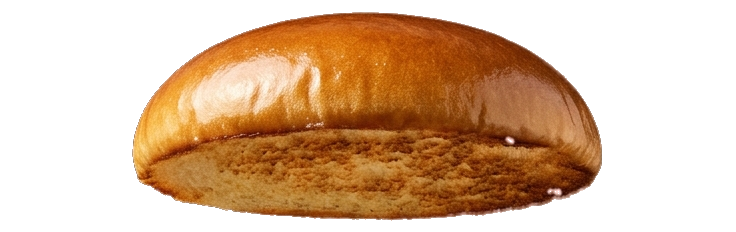
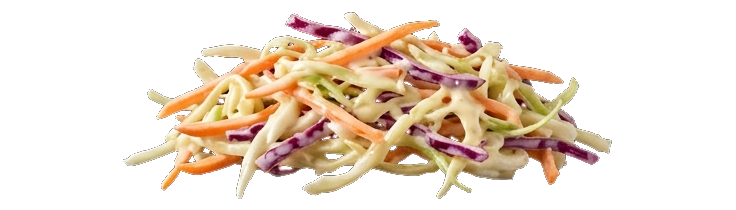
fix(og-chicken): swap couche 1 bun and couche 2 coleslaw, fix mobile responsive label layout

diff --git a/client/src/pages/Home.tsx b/client/src/pages/Home.tsx
@@ -1102,7 +1102,7 @@ export default function Home() {
             <div className="lg:col-span-7 flex flex-col items-center">
               
               {/* 3D STAGE CARD (NO overflow-hidden TO PRESERVE 3D DEPTH) */}
-              <div className="relative w-full max-w-[580px] rounded-3xl bg-gradient-to-b from-[#14141a]/95 to-[#0e0e12]/98 border border-white/10 p-5 sm:p-6 flex flex-col items-center justify-between shadow-2xl group">
+              <div className="relative w-full max-w-[580px] rounded-3xl bg-gradient-to-b from-[#14141a]/95 to-[#0e0e12]/98 border border-white/10 p-3.5 sm:p-6 flex flex-col items-center justify-between shadow-2xl group">
                 
                 {/* AMBIENT RADIAL GLOW */}
                 <div
@@ -1236,7 +1236,9 @@ export default function Home() {
                   {/* 3D BURGER MODEL CONTAINER (HIGH-PERFORMANCE DIRECT DOM TRANSFORM) */}
                   <div
                     ref={modelRef}
-                    className={`burger-3d-model relative flex items-center justify-center cursor-pointer w-[280px] sm:w-[320px] h-[280px] sm:h-[320px] ${
+                    className={`burger-3d-model relative flex items-center justify-center cursor-pointer ${
+                      isExploded ? "w-full max-w-[480px] h-[330px] sm:h-[360px]" : "w-[280px] sm:w-[320px] h-[280px] sm:h-[320px]"
+                    } ${
                       isExploded ? "exploded" : ""
                     }`}
                   >
@@ -1293,13 +1295,10 @@ export default function Home() {
                                   zIndex: isActive ? 30 : total - idx,
                                 }}
                               >
-                                {/* 5 TRANSPARENT PNG LAYERS (280px, height: auto, NO background, NO overflow hidden) */}
+                                {/* 5 TRANSPARENT PNG LAYERS (Responsive width, height: auto, NO background, NO overflow hidden) */}
                                 <div
+                                  className="w-[165px] min-[380px]:w-[190px] min-[440px]:w-[220px] sm:w-[260px] md:w-[280px] shrink-0 relative transition-transform duration-500"
                                   style={{
-                                    width: '280px',
-                                    flexShrink: 0,
-                                    position: 'relative',
-                                    transition: 'transform 0.45s cubic-bezier(0.34, 1.56, 0.64, 1)',
                                     transform: isActive ? 'scale(1.08)' : 'scale(1)',
                                   }}
                                 >
@@ -1307,35 +1306,29 @@ export default function Home() {
                                     src={layer.image}
                                     alt={layer.name}
                                     draggable={false}
+                                    className="w-full h-auto object-contain block pointer-events-none select-none"
                                     style={{
-                                      width: '280px',
-                                      height: 'auto',
-                                      objectFit: 'contain',
                                       filter: isActive
                                         ? 'drop-shadow(0 20px 30px rgba(0,0,0,0.8)) drop-shadow(0 0 20px rgba(255,59,48,0.85)) brightness(1.1)'
                                         : 'drop-shadow(0 15px 25px rgba(0,0,0,0.6))',
-                                      pointerEvents: 'none',
-                                      userSelect: 'none',
-                                      display: 'block',
                                     }}
                                   />
                                 </div>
 
-                                {/* INGREDIENT LABEL — right side, cleanly aligned outside burger */}
+                                {/* INGREDIENT LABEL — right side, responsive & never cut off */}
                                 <div
                                   style={{
-                                    marginLeft: '14px',
                                     transition: 'all 0.35s cubic-bezier(0.16, 1, 0.3, 1)',
-                                    opacity: isActive ? 1 : 0.5,
-                                    transform: isActive ? 'translateX(6px)' : 'translateX(0px)',
+                                    opacity: isActive ? 1 : 0.65,
+                                    transform: isActive ? 'translateX(4px)' : 'translateX(0px)',
                                   }}
-                                  className="flex flex-col items-start gap-1 pointer-events-none pr-2"
+                                  className="flex flex-col items-start gap-0.5 sm:gap-1 pointer-events-none flex-1 min-w-0 pl-1.5 sm:pl-3.5 pr-0.5 sm:pr-2"
                                 >
-                                  <div className="flex items-center gap-1.5">
+                                  <div className="flex items-center gap-1 sm:gap-1.5 w-full min-w-0">
                                     <span
-                                      className="text-[10px] font-black uppercase tracking-wider px-2 py-0.5 rounded-full"
+                                      className="text-[9px] sm:text-[10px] font-black uppercase tracking-wider px-1.5 sm:px-2 py-0.5 rounded-full shrink-0"
                                       style={{
-                                        background: isActive ? '#ff3b30' : 'rgba(255,255,255,0.08)',
+                                        background: isActive ? '#ff3b30' : 'rgba(255,255,255,0.1)',
                                         color: '#ffffff',
                                         boxShadow: isActive ? '0 0 12px rgba(255,59,48,0.7)' : 'none',
                                       }}
@@ -1343,7 +1336,7 @@ export default function Home() {
                                       #{layer.num}
                                     </span>
                                     <span
-                                      className="text-xs font-bold leading-tight whitespace-nowrap"
+                                      className="text-[11px] sm:text-xs font-bold leading-tight truncate sm:whitespace-nowrap"
                                       style={{
                                         color: isActive ? '#ffffff' : '#a1a1aa',
                                         textShadow: isActive ? '0 0 10px rgba(255,59,48,0.6)' : 'none',
@@ -1354,8 +1347,7 @@ export default function Home() {
                                   </div>
                                   {isActive && (
                                     <span
-                                      className="text-[10px] font-semibold leading-tight text-[#f59e0b] px-1.5 py-0.5 rounded bg-black/70 border border-[#f59e0b]/30 shadow-md"
-                                      style={{ maxWidth: '160px' }}
+                                      className="text-[9px] sm:text-[10px] font-semibold leading-tight text-[#f59e0b] px-1.5 py-0.5 rounded bg-black/70 border border-[#f59e0b]/30 shadow-md truncate max-w-[120px] sm:max-w-[180px]"
                                     >
                                       {layer.tag}
                                     </span>
